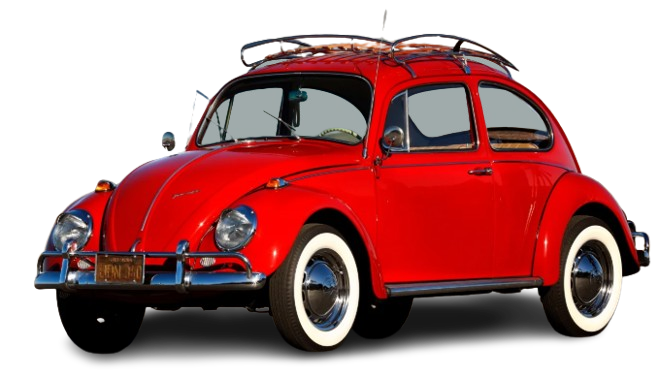
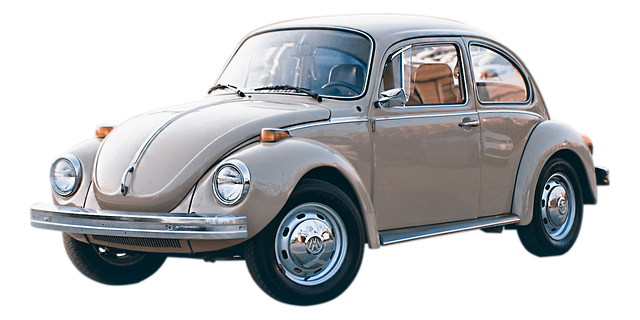
Add files via upload
Primeira versão do site

diff --git a/app.py b/app.py
@@ -3,10 +3,33 @@ st.title(" Ls Motores - Alugueis de Carro")
 st.sidebar.title("Escolha seu modelo")
 st.sidebar.image('logo.png')
 
-carros = [' BMW ', ' Porshe ', ' Fusca', ' Toro ']
+carros = ['BMW', 'Porshe', 'Fusca', 'Toro']
 
-opcao = st. sidebar.selectbox('escolha o carro que vai ser alugado', carros)
+opcao = st. sidebar.selectbox('Escolha o carro que vai ser alugado', carros)
 
-st. image(f'{opcao}.png')
-st.markdown(f'## Voce alugouo modelo: {opcao}')
+st.image(f'{opcao}.png')
+st.markdown(f'## Você alugou modelo: {opcao}')
 st.markdown('---')
+
+dias = st. number_input('Quantos dias você vai alugar o carro?', min_value=1, step=1)
+km = st. text_input('Quantos km voce vai rodar?')
+
+if opcao == 'BMW':
+    diaria = 120
+elif opcao == 'Porshe':
+    diaria = 250
+elif opcao == 'Fusca':
+    diaria = 80
+elif opcao == 'Toro':
+    diaria = 100
+
+
+
+if st. button('Calcular'):
+    dias = int(dias)
+    km = float(km)
+
+    total_dias = dias * diaria
+    total_km = km * 0.50   
+    aluguel_total = total_dias+total_km
+    st.warning(f' você alugou o {opcao} por {dias} dias e rodou {km}km. O valor total a pagar é R${aluguel_total:.2f}')   